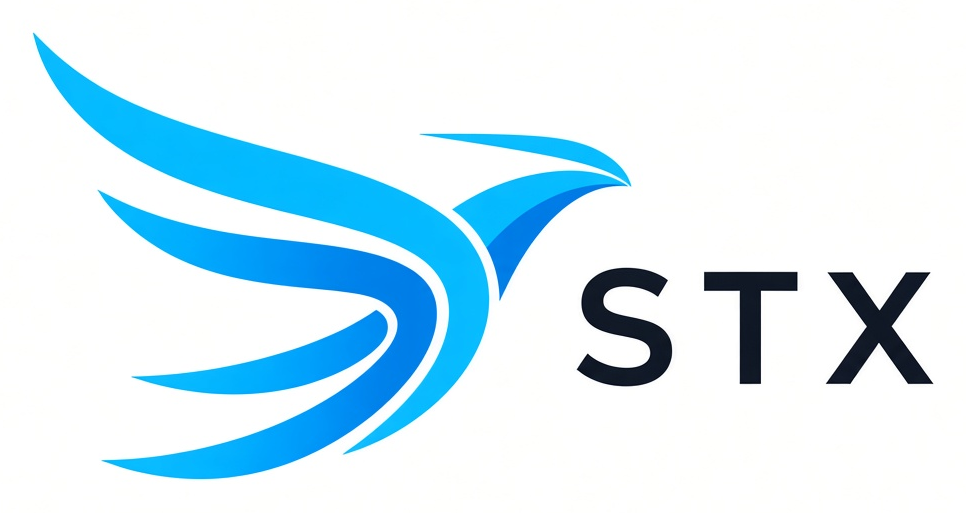
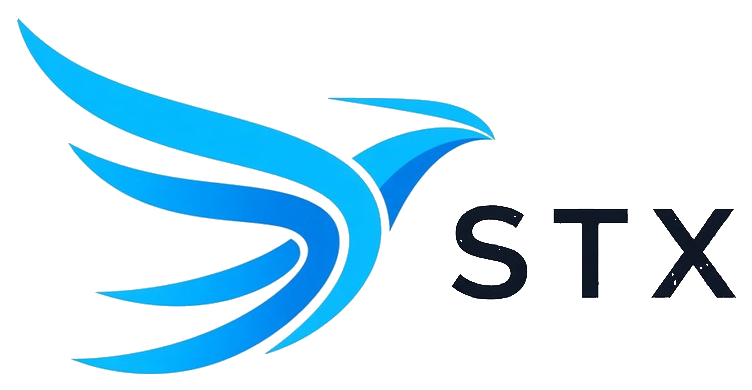
style(品牌): 锁定青鸾锁章定稿并改为透明底
保留完整鸟头造型，浅/深色锁章去实心底以便叠在任意容器上。

diff --git a/frontend/components/icons/logo.tsx b/frontend/components/icons/logo.tsx
@@ -23,19 +23,19 @@ interface BrandImageProps {
 }
 
 /** 资源版本号，用于刷新浏览器与 Next Image 缓存。 / Asset version for cache busting. */
-const BRAND_ASSET_VERSION = 'qingluan-wordmark-2';
+const BRAND_ASSET_VERSION = 'qingluan-chosen-transparent-1';
 
 /**
- * STX 浅色横向锁章（青鸾鸟标 + STX 字标），用于白底登录页、文档页眉等。
- * STX light lockup (Qingluan mark + STX wordmark) for light backgrounds.
+ * STX 浅色横向锁章（青鸾鸟标 + STX 字标），透明底。
+ * STX light lockup (Qingluan mark + STX wordmark), transparent background.
  */
 function STXLogo({className, priority = false}: BrandImageProps) {
   return (
     <Image
       src={`/brand/stx-logo.png?v=${BRAND_ASSET_VERSION}`}
       alt='STX'
-      width={966}
-      height={513}
+      width={752}
+      height={390}
       className={className}
       priority={priority}
       draggable={false}
@@ -44,16 +44,16 @@ function STXLogo({className, priority = false}: BrandImageProps) {
 }
 
 /**
- * STX 深色横向锁章（青鸾鸟标 + 白字 STX），用于黑底顶栏、暗色营销页等。
- * STX dark lockup (Qingluan mark + white STX) for dark backgrounds.
+ * STX 深色横向锁章（青鸾鸟标 + 白字 STX），透明底，可叠任意深色容器。
+ * STX dark lockup (Qingluan mark + white STX), transparent for any dark surface.
  */
 function STXLogoDark({className, priority = false}: BrandImageProps) {
   return (
     <Image
       src={`/brand/stx-logo-dark.png?v=${BRAND_ASSET_VERSION}`}
       alt='STX'
-      width={965}
-      height={512}
+      width={752}
+      height={391}
       className={className}
       priority={priority}
       draggable={false}
